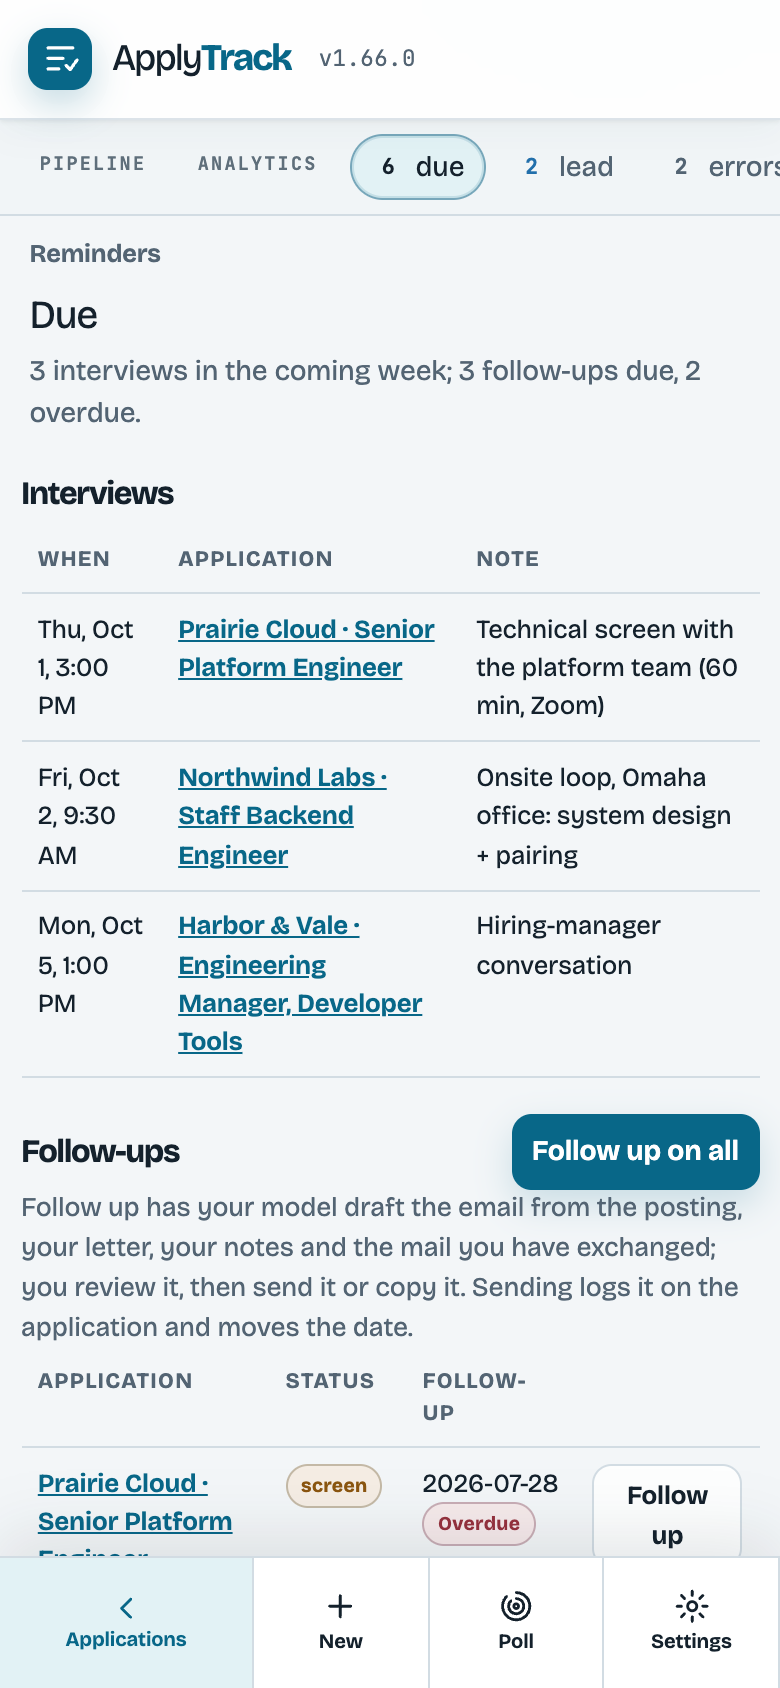
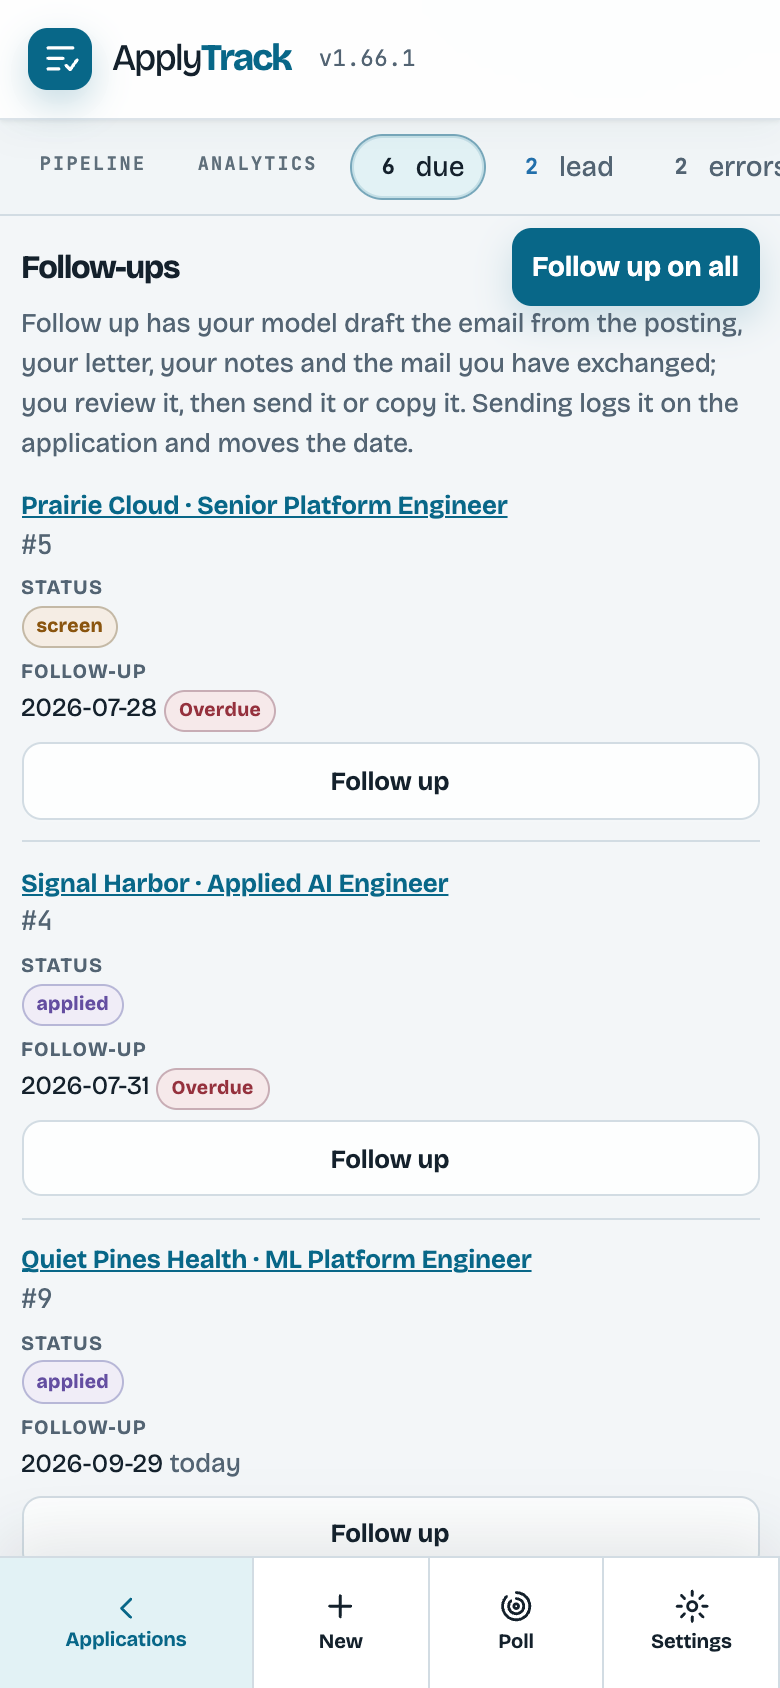
docs(screenshots): retake Errors and Due after the phone card layout (#401)
The phone shots now show each row as a card with Retry / Follow up on screen; the
Due phone shot is scrolled to Follow-ups so the buttons show. Taken from main
107ba3f (1.66.1) with the same seeded account as the rest of the gallery.
BACKLOG: #401 checked (closed by #402).

Claude-Session: https://claude.ai/code/session_01SXYffreKMhXLNgc2wdhsiw

diff --git a/BACKLOG.md b/BACKLOG.md
@@ -160,7 +160,7 @@ review items and unsupported forms still need human attention.
 - [x] [#274 — Ready: a packet whose last run failed is never retried, and a Ready row with no packet is never built — both sit forever](https://github.com/CryptoJones/OSApplyTrack/issues/274) (fixed in 1.48.4: a `ReadyReconciler` on every agent pass queues a prepare for a Ready row with no packet and another dry run for one whose last *dry* run died on something transient — a crash, a timeout, an Apply button that never answered — three failures per seven days, six hours apart. Never for a captcha, a sign-in wall, an unmapped required field, a provider the browser may not drive, a real run, or a submit whose confirmation was not recognised: the board may have taken that one, and a second application is worse than a parked one. New crash evidence carries `transient`, so the rule stops depending on wording)
 - [x] [#393 — Errors view: a "Retry All" button at the top right](https://github.com/CryptoJones/OSApplyTrack/issues/393) (fixed in 1.66.0: a **Retry all** button on the Errors heading row queues a dry-run retry for every stuck row in one request through the Ready lane's bulk route, which now takes `dry_run: true` to force a dry run whatever *Dry run only* says — so the batch counts once against the submit rate limit and never makes a real click; what was queued and what was not, and why, is announced; focus returns to the heading)
 - [x] [#394 — Due view: follow up agentically — the agent drafts (and optionally sends) the follow-up](https://github.com/CryptoJones/OSApplyTrack/issues/394) (fixed in 1.66.0: **Follow up** on each Due row and **Follow up on all** walk the follow-ups in one dialog — the tenant's model (any OpenAI-compatible endpoint, metered like any draft, no call at all with drafting off) writes a short email from the application and its dates, the contact, the cover letter, the notes log and the last messages the mailbox has exchanged with that contact; the person edits it, then **Send** mails it from their **own** account (new SMTP host/port on the mailbox settings, same username and sealed app password, host pinned to a public address like the IMAP side) — never the instance's sender — or **Mark followed up** logs one made elsewhere; either way it lands in the notes log and the date moves or clears. No contact on file: the row says so and the draft is still written, to copy. Unreviewed sending split out as #398)
-- [ ] [#401 — Mobile: Errors and Due tables overflow or crush on a phone — Retry cut off](https://github.com/CryptoJones/OSApplyTrack/issues/401)
+- [x] [#401 — Mobile: Errors and Due tables overflow or crush on a phone — Retry cut off](https://github.com/CryptoJones/OSApplyTrack/issues/401) (fixed in 1.66.1: at ≤ 640px each Errors and Due row stacks into a card — every value under its column name, the row's Retry / Follow up full width and on screen — with explicit table roles so screen readers keep the headers)
 - [ ] [#398 — Follow-ups: opt-in to let the agent send a drafted follow-up without review](https://github.com/CryptoJones/OSApplyTrack/issues/398)
 
 ## Production audit — 2026-09-12, closed out 2026-09-13
